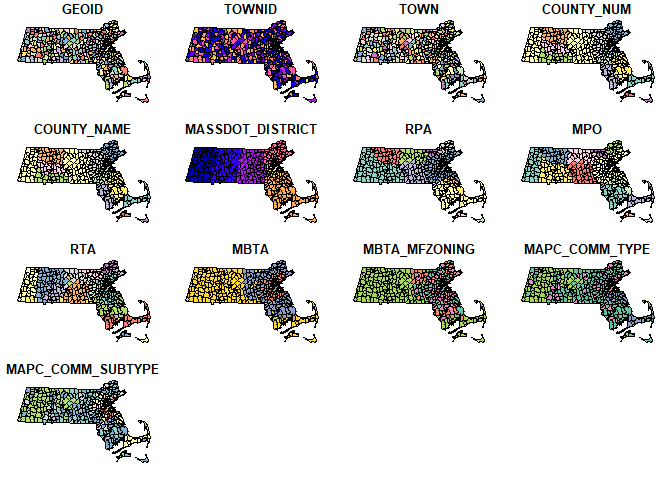
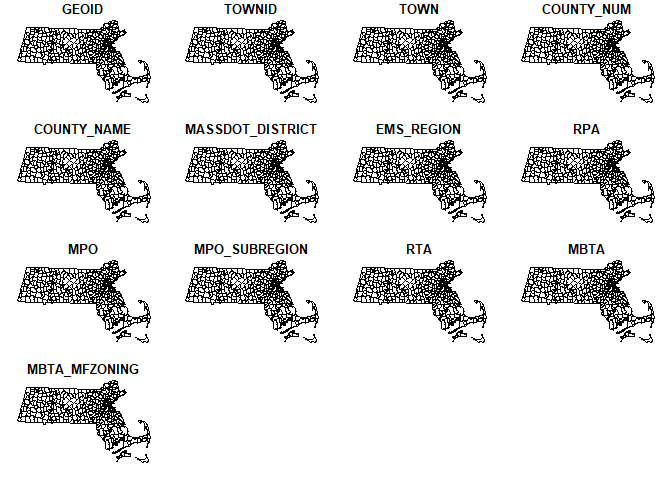
udpate readme

diff --git a/README.md b/README.md
@@ -1,4 +1,5 @@
 
+
 ## Generating Municipal Lookups
 
 This repo contains a set of lookups one can use to attach 2020 County
@@ -6,6 +7,9 @@ Subdivision GEOIDs to various municipality-based attributes. This work
 was adapted from an internal CTPS spreadsheet, that was expanded in
 Spring 2023. Much of the work was done using found datasets that
 appeared to be useful or official.
+
+Updated: June 2025: Added Manchester by the Sea to CATA; subscript:
+\_2025
 
 The fields included are shown below:
 
